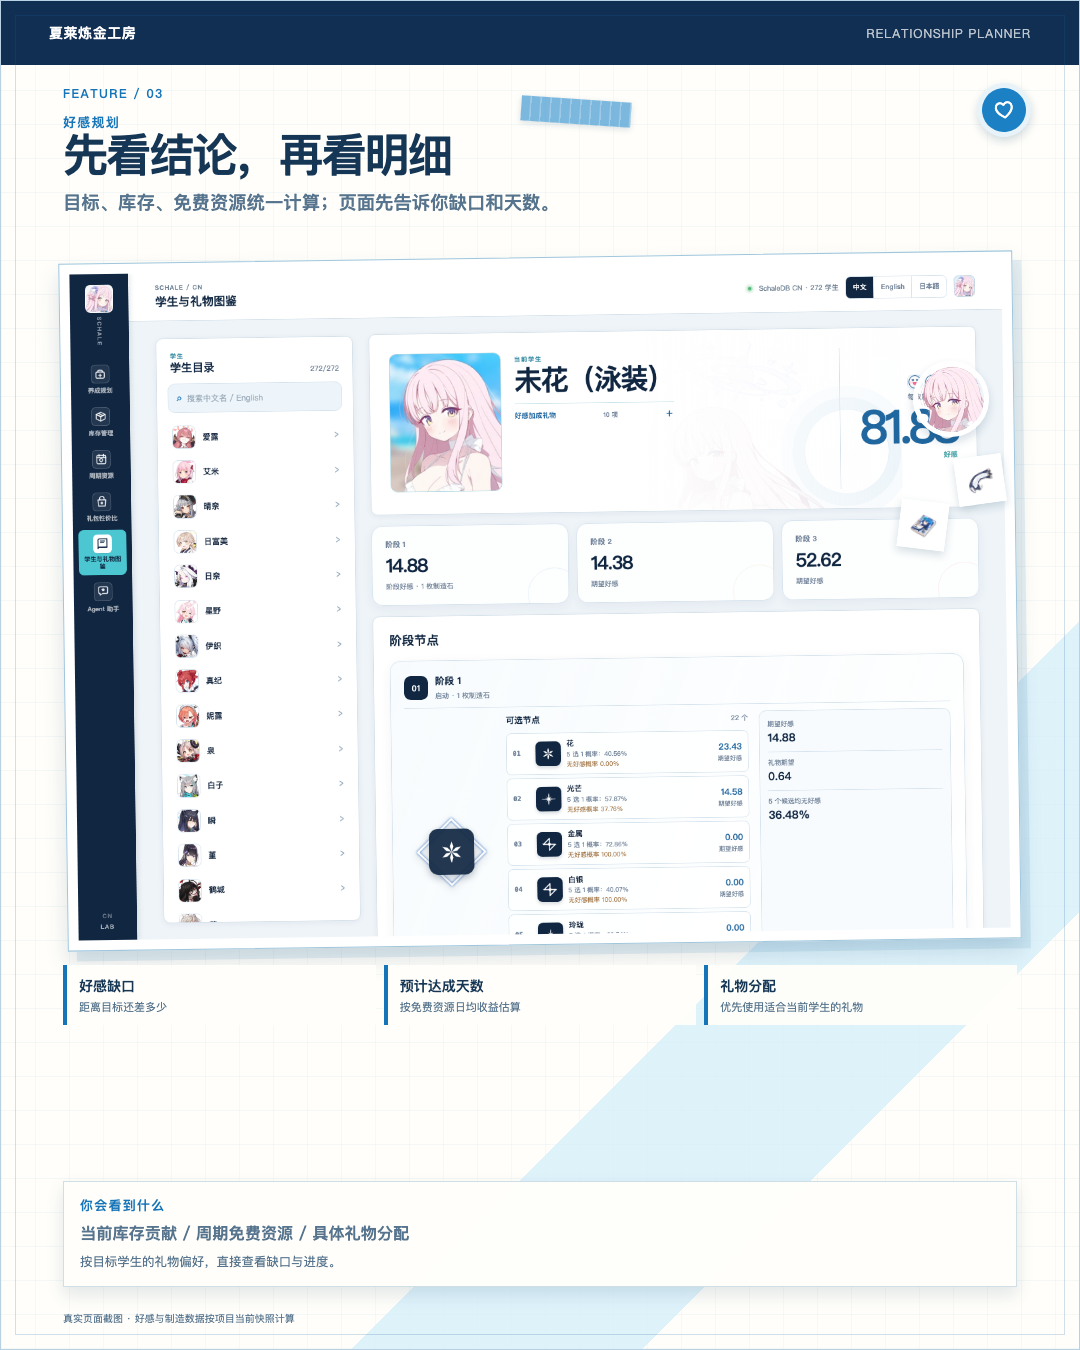
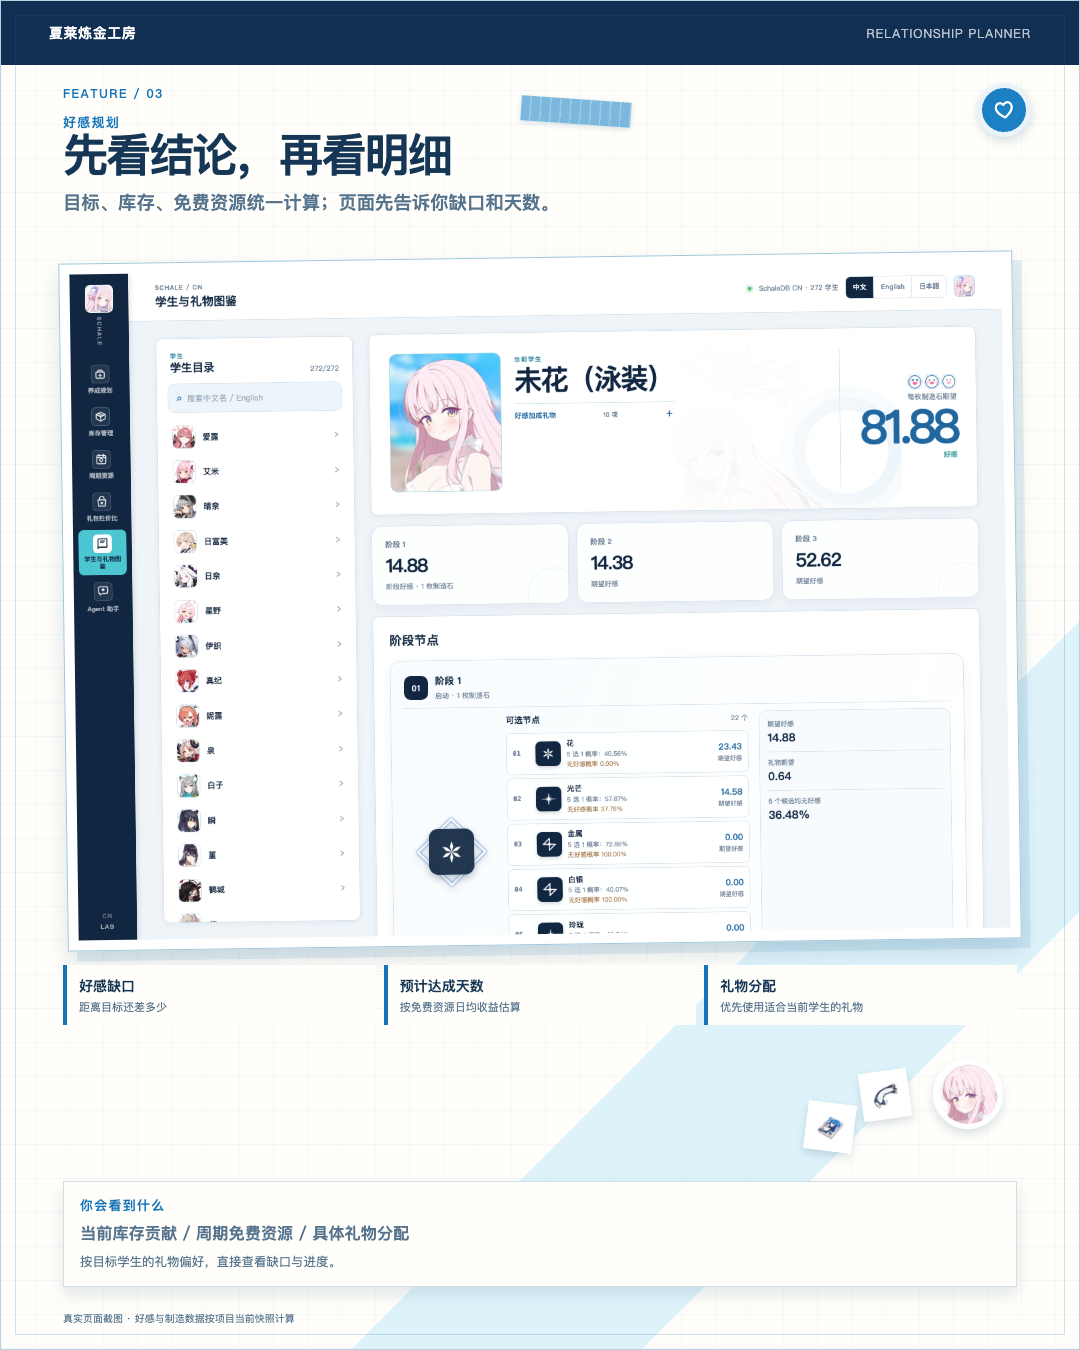
fix: keep planner decorations out of screenshot

diff --git a/docs/promotion/scrapbook/preview.html b/docs/promotion/scrapbook/preview.html
@@ -211,10 +211,10 @@
     .feature-note { position: absolute; z-index: 4; left: 62px; right: 62px; bottom: 62px; padding: 14px 16px 15px; background: rgba(255,254,250,.96); }
     .feature-note .lead { margin-top: 7px; font-size: clamp(12px, 1.5vw, 17px); }
     .feature-note .fine { margin-top: 7px; }
-    .planner .portrait { position: absolute; z-index: 5; width: 76px; height: 76px; object-fit: cover; right: 90px; top: 360px; border: 5px solid #fff; border-radius: 50%; box-shadow: 0 5px 10px rgba(30,74,107,.18); transform: rotate(5deg); }
+    .planner .portrait { position: absolute; z-index: 5; width: 70px; height: 70px; object-fit: cover; right: 76px; top: 1058px; border: 5px solid #fff; border-radius: 50%; box-shadow: 0 5px 10px rgba(30,74,107,.18); transform: rotate(5deg); }
     .gift { position: absolute; z-index: 6; width: 48px; height: 48px; object-fit: contain; padding: 4px; background: #fff; border: 3px solid #fff; box-shadow: 0 4px 9px rgba(27,75,107,.18); }
-    .planner .g1 { right: 75px; top: 455px; transform: rotate(-8deg); }
-    .planner .g2 { right: 132px; top: 500px; transform: rotate(7deg); }
+    .planner .g1 { right: 170px; top: 1070px; transform: rotate(-8deg); }
+    .planner .g2 { right: 225px; top: 1102px; transform: rotate(7deg); }
     .info-strip { position: absolute; z-index: 3; left: 62px; right: 62px; top: 964px; display: grid; grid-template-columns: repeat(3, 1fr); gap: 8px; }
     .info-card { padding: 11px 12px; border-left: 4px solid var(--blue); background: rgba(255,254,250,.94); }
     .info-card strong { display: block; font-size: 14px; }
